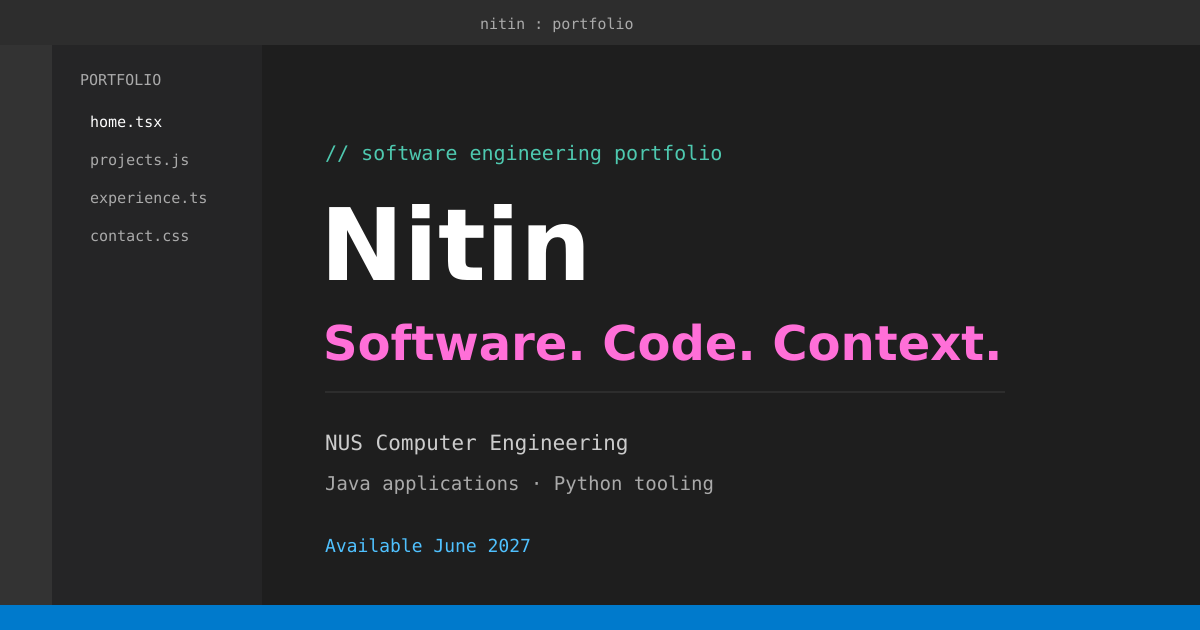
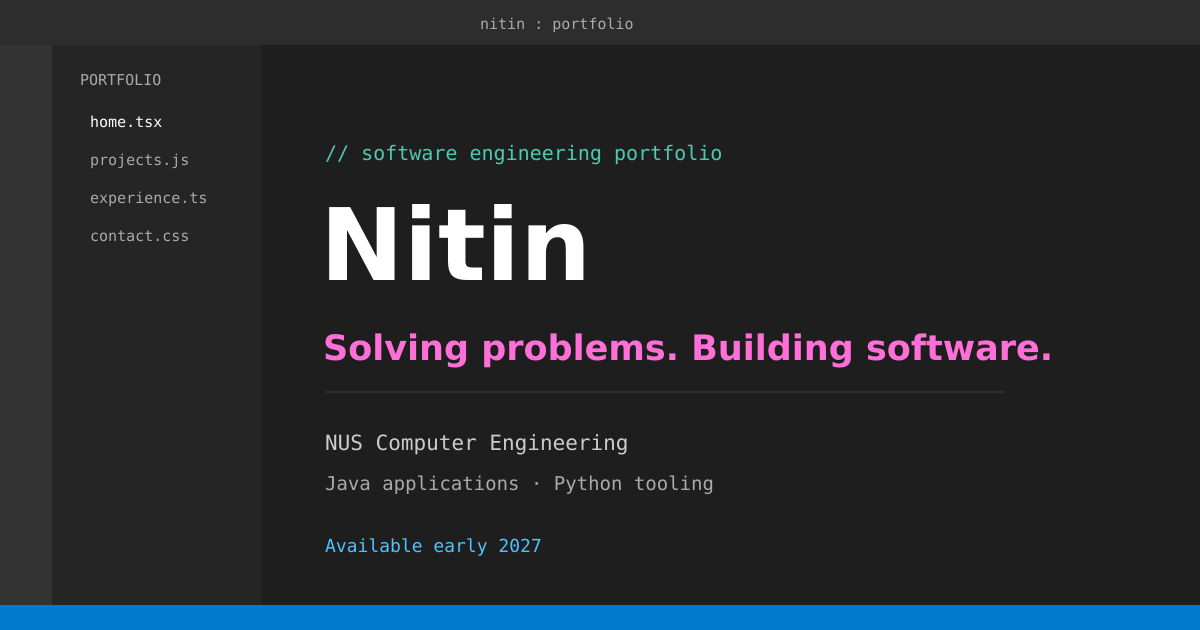
Refocus portfolio on software problem solving, ownership and teamwork

Changed region(s): [[0.2467, 0.5127, 0.8942, 0.6032], [0.3392, 0.8444, 0.4625, 0.8746]]

diff --git a/app.js b/app.js
@@ -31,11 +31,11 @@ const projectCards = [
     summary:'The software behind a wearable gesture/audio project: data collectors, capture protocols, calibration utilities and a live detector validation interface.',
     tags:['Python','MQTT / TLS','Data collection','Model tooling'],
     problem:'Collect structured sensor and audio recordings, coordinate captures and inspect action-detector behaviour while preserving useful labels and metadata.',
-    contribution:'This repository packages the team’s wearable-side work and supporting software. My exact ownership of the Python tools, protocol design and model pipeline still needs confirmation.',
+    contribution:'My contributions span Python data collectors and validation interfaces, communication protocols and capture coordination, model-training and export tooling, and firmware/hardware integration. This work forms part of a larger team project.',
     approach:'The paired demo uses MQTT/TLS control messages and shared capture IDs. Separate Python tools collect and review recordings. A separate detector prototype includes a live validation UI, training scripts and model-to-C++ export.',
     outcome:'Source, protocol guides, model reports and test code are available. The automatic detector remains a prototype; it has not replaced the paired demo trigger. The team’s Ultra96 inference and Unity projects are separate.',
     evidence:external('https://github.com/nitin19011/milo-hardware/blob/main/README.md','Repository overview')+' · '+external('https://github.com/nitin19011/milo-hardware/tree/main/prototypes/candidate_detector_latest','Detector prototype'),
-    note:'Draft detail: confirm which Milo software components I personally implemented before using this case study in applications.'
+    note:null
   },
   {
     name:'Socks',type:'Java application · course project',number:'03',url:'https://github.com/nitin19011/ip',
@@ -52,13 +52,13 @@ const projectCards = [
 const card = p => `<article class="project-card"><div class="project-top"><span class="project-number" aria-hidden="true">${p.number}</span>${external(p.url,'GitHub')}</div><p class="project-type">${p.type}</p><h3>${p.name}</h3><p>${p.summary}</p>${tags(p.tags)}<details><summary>Read case study</summary><dl class="project-details"><dt>Problem</dt><dd>${p.problem}</dd><dt>My contribution</dt><dd>${p.contribution}</dd><dt>Approach</dt><dd>${p.approach}</dd><dt>Outcome & current limits</dt><dd>${p.outcome}</dd><dt>Evidence</dt><dd>${p.evidence}</dd></dl>${p.note?`<p class="draft-note">${p.note}</p>`:''}</details></article>`;
 
 const views = {
-  home: () => `<section class="pane home-pane" aria-labelledby="home-title"><div class="hero-grid"><div class="hero-copy"><p class="code-comment">// hello world. I'm Nitin.</p><h1 id="home-title">Nitin<span>Software portfolio.</span></h1><div class="underline-accent"></div><div class="badges"><span class="badge"><span class="dot"></span>Software engineering focus</span><span class="badge"><span class="dot"></span>NUS undergraduate</span><span class="badge pink">Class of 2027</span></div><p class="typing-line">Building applications. Understanding the details.<span class="cursor" aria-hidden="true"> |</span></p><p class="intro">I'm a Computer Engineering undergraduate focused on <strong>software development</strong>. My work spans <strong>Java applications</strong> and <strong>Python tooling</strong>, supported by industry experience in testing, troubleshooting and customer requirements.</p><div class="actions"><a class="button primary" href="#projects"><span aria-hidden="true">▱</span> View projects</a><a class="button" href="assets/Nitin_Resume.pdf" download><span aria-hidden="true">↓</span> Download résumé</a><a class="button" href="#contact"><span aria-hidden="true">✉</span> Contact</a></div></div><figure class="portrait"><div class="portrait-title"><span>nitin.webp</span><span aria-hidden="true">image</span></div><img src="assets/nitin.webp" width="600" height="800" alt="Nitin wearing a blue T-shirt, looking to the side" fetchpriority="high"><figcaption>Singapore · NUS Computer Engineering</figcaption></figure></div><div class="facts" aria-label="Profile at a glance"><div class="fact"><strong>NUS</strong><span>Computer Engineering</span></div><div class="fact"><strong>Java</strong><span>Application projects</span></div><div class="fact"><strong>Python</strong><span>Collection & tooling</span></div><div class="fact"><strong>Jun 2027</strong><span>Available full-time</span></div></div><div class="socials">${external('https://github.com/nitin19011','GitHub','social-link')}<a class="social-link" href="mailto:nitinsaklani18@gmail.com"><span aria-hidden="true">✉</span>Email</a><a class="social-link" href="#experience"><span aria-hidden="true">⌁</span>Engineering experience</a></div><p class="home-footnote">Start with <a href="#projects">FitChasers & Milo</a>, or open a file in the explorer.</p></section>`,
+  home: () => `<section class="pane home-pane" aria-labelledby="home-title"><div class="hero-grid"><div class="hero-copy"><p class="code-comment">// hello world. I'm Nitin.</p><h1 id="home-title">Nitin<span>Software portfolio.</span></h1><div class="underline-accent"></div><div class="badges"><span class="badge"><span class="dot"></span>Software engineering focus</span><span class="badge"><span class="dot"></span>NUS undergraduate</span><span class="badge pink">Class of 2027</span></div><p class="typing-line">I learn fast, take ownership and build with others.<span class="cursor" aria-hidden="true"> |</span></p><p class="intro">I’m drawn to <strong>software engineering</strong> because I enjoy figuring out how to solve a problem, learning what it takes and turning that understanding into something that works. I take ownership, look beyond the immediate task and enjoy <strong>getting things done with a team</strong>.</p><div class="actions"><a class="button primary" href="#projects"><span aria-hidden="true">▱</span> View projects</a><a class="button" href="assets/Nitin_Resume.pdf" download><span aria-hidden="true">↓</span> Download résumé</a><a class="button" href="#contact"><span aria-hidden="true">✉</span> Contact</a></div></div><figure class="portrait"><div class="portrait-title"><span>nitin.webp</span><span aria-hidden="true">image</span></div><img src="assets/nitin.webp" width="600" height="800" alt="Nitin wearing a blue T-shirt, looking to the side" fetchpriority="high"><figcaption>Singapore · NUS Computer Engineering</figcaption></figure></div><div class="facts" aria-label="Profile at a glance"><div class="fact"><strong>NUS</strong><span>Computer Engineering</span></div><div class="fact"><strong>Java</strong><span>Application projects</span></div><div class="fact"><strong>Python</strong><span>Collection & tooling</span></div><div class="fact"><strong>Early 2027</strong><span>Available full-time</span></div></div><div class="socials">${external('https://github.com/nitin19011','GitHub','social-link')}<a class="social-link" href="mailto:nitinsaklani18@gmail.com"><span aria-hidden="true">✉</span>Email</a><a class="social-link" href="#experience"><span aria-hidden="true">⌁</span>Engineering experience</a></div><p class="home-footnote">Start with <a href="#projects">FitChasers & Milo</a>, or open a file in the explorer.</p></section>`,
   projects: () => `<section class="pane" aria-labelledby="projects-title">${heading('// projects.js — source, decisions, contributions','Selected projects','Application development and software tools. Open a case study for scope, contribution and evidence.').replace('<h2>','<h2 id="projects-title">')}<div class="project-grid">${projectCards.map(card).join('')}</div></section>`,
-  about: () => `<section class="pane" aria-labelledby="about-title">${heading('&lt;!-- about.html — background & education --&gt;','About me','Computer Engineering background. Software engineering direction.').replace('<h2>','<h2 id="about-title">')}<div class="info-box"><p>I'm <strong>Nitin</strong>, a Computer Engineering undergraduate at the National University of Singapore. I'm looking for <strong>software engineering roles starting June 2027</strong>.<br><br>Before university, I worked in semiconductor engineering, where I supported testing, investigated issues and translated customer requirements into inspection checks. I'm now building my software portfolio through Java applications and the tools supporting team projects.</p></div><h3 class="section-heading">Education</h3><div class="education"><article class="info-box"><p class="date">August 2024 – April 2027 · expected</p><h3>National University of Singapore</h3><p>Bachelor of Engineering in Computer Engineering (Honours)</p><p>Relevant completed coursework includes software engineering and object-oriented programming, data structures and algorithms, and information security.</p></article><article class="info-box"><p class="date">2018 – 2021</p><h3>Temasek Polytechnic</h3><p>Diploma in Aerospace Engineering</p></article></div><h3 class="section-heading">Outside the editor</h3><p class="muted">Volleyball, guitar and piano, and an interest in technology and physics.</p><a class="button" href="assets/Nitin_Resume.pdf" download>↓ Download full résumé</a></section>`,
-  skills: () => `<section class="pane" aria-labelledby="skills-title">${heading('// skills.json — grouped by evidence','Skills & tools','No proficiency scores. Each group points to the work behind it.').replace('<h2>','<h2 id="skills-title">')}<div class="skill-grid"><article class="skill-group"><h3>Application development</h3>${tags(['Java','Object-oriented programming','Command parsing','File storage'])}<p>Evidence: <a href="#projects">FitChasers and Socks</a>.</p></article><article class="skill-group"><h3>Tooling & collection</h3>${tags(['Python','Collection interfaces','Dataset metadata','Protocol tooling'])}<p>Present in <a href="#projects">Milo’s software tooling</a>. Component ownership is being confirmed.</p></article><article class="skill-group"><h3>Development workflow</h3>${tags(['Git / GitHub','Gradle','JUnit','Checkstyle','Technical documentation'])}<p>Evidence: FitChasers source, build configuration, tests and contribution notes.</p></article><article class="skill-group"><h3>Engineering practice</h3>${tags(['Issue reproduction','Fix verification','Troubleshooting','Customer requirements'])}<p>Evidence: applications and associate engineering roles.</p></article></div><div class="info-box"><p>My résumé also lists <strong>C, C++, Python, Java, Rust and Linux</strong>. Project-specific examples and current proficiency should be discussed in an interview; the list is not a claim of equal depth in every language.</p></div></section>`,
-  experience: () => `<section class="pane" aria-labelledby="experience-title">${heading('// experience.ts — professional background','Experience','Testing, troubleshooting and communicating technical requirements.').replace('<h2>','<h2 id="experience-title">')}<div class="timeline"><article><time>March 2024 – August 2024</time><h3>Applications Engineer</h3><p class="company">@ IN.D Solution · Semiconductor devices</p><ul><li>Built and tuned machine-vision inspection recipes against customer requirements.</li><li>Supplied test cases, reproduced issues and verified fixes across software and hardware updates.</li><li>Supported technical troubleshooting, demonstrations and project reporting across teams.</li></ul>${tags(['Machine vision','Testing','Requirements'])}</article><article><time>October 2021 – September 2023</time><h3>Associate Engineer</h3><p class="company">@ STATS ChipPAC · JCET Group</p><ul><li>Investigated semiconductor device issues and supported corrective actions.</li><li>Collected data to help product engineers address quality and yield requirements.</li><li>Communicated testing progress and technical issues to customers.</li></ul>${tags(['Troubleshooting','Data collection','Customer communication'])}</article><article><time>October 2020 – March 2021</time><h3>Design & Mechanical Engineer Intern</h3><p class="company">@ Temasek Polytechnic Aviation Research Centre</p><ul><li>Supported UAV prototype fabrication, assembly and iteration.</li><li>Created and refined PTC Creo models for fit and assembly requirements.</li><li>Assisted with build documentation and coordination.</li></ul>${tags(['Prototyping','PTC Creo','Documentation'])}</article></div><p class="section-description">These roles are engineering experience. They are not presented as software engineering employment.</p></section>`,
-  contact: () => `<section class="pane" aria-labelledby="contact-title">${heading('/* contact.css — get in touch */','Let’s talk software.','Available for full-time roles from June 2027.').replace('<h2>','<h2 id="contact-title">')}<div class="info-box"><p>For software engineering opportunities or a conversation about my projects:</p><a class="contact-address" href="mailto:nitinsaklani18@gmail.com">nitinsaklani18@gmail.com <span aria-hidden="true">↗</span></a><div class="actions"><a class="button primary" href="mailto:nitinsaklani18@gmail.com">✉ Write an email</a>${external('https://github.com/nitin19011','View GitHub','button')}<a class="button" href="assets/Nitin_Resume.pdf" download>↓ Download résumé</a></div></div><div class="contact-grid"><div class="info-box"><h3>Role focus</h3><p>Software engineering and application development. Open to discussing customer-facing technical software roles.</p></div><div class="info-box"><h3>Location & availability</h3><p>Based in Singapore. Available June 2027. Open to overseas employers offering remote roles that can be performed from Singapore.</p></div></div><p class="section-description">The email link opens your mail application. No contact form or third-party submission service is used.</p></section>`,
-  readme: () => `<section class="pane md-content" aria-labelledby="readme-title">${heading('# README.md','A quick introduction','The short version, for a recruiter with a few minutes.').replace('<h2>','<h2 id="readme-title">')}<div class="code-block"><span class="code-line">{</span><span class="code-line">&nbsp; <span class="code-key">"name"</span>: <span class="code-string">"Nitin"</span>,</span><span class="code-line">&nbsp; <span class="code-key">"focus"</span>: <span class="code-string">"Software engineering"</span>,</span><span class="code-line">&nbsp; <span class="code-key">"education"</span>: <span class="code-string">"NUS Computer Engineering"</span>,</span><span class="code-line">&nbsp; <span class="code-key">"available"</span>: <span class="code-string">"June 2027"</span></span><span class="code-line">}</span></div><h3>What to look at</h3><ul><li><a href="#projects">FitChasers</a>: Java application work and documented personal contributions.</li><li><a href="#projects">Milo</a>: collection, protocol and validation tooling supporting a team project.</li><li><a href="#experience">Engineering experience</a>: practical troubleshooting, testing and customer communication.</li></ul><h3>What is still being documented</h3><p>The Milo and Socks case studies explicitly mark personal contribution details that need confirmation. Prototype behaviour is described with its limitations; no production or adoption claims are made.</p><h3>Get the résumé</h3><p><a href="assets/Nitin_Resume.pdf" download>Download the supplied résumé as a PDF</a>, or <a href="mailto:nitinsaklani18@gmail.com">contact me directly</a>.</p></section>`
+  about: () => `<section class="pane" aria-labelledby="about-title">${heading('&lt;!-- about.html — background & education --&gt;','About me','Curious about the problem. Committed to getting it done.').replace('<h2>','<h2 id="about-title">')}<div class="info-box"><p>I’m <strong>Nitin</strong>, a Computer Engineering undergraduate at the National University of Singapore, pursuing <strong>software engineering opportunities from early 2027</strong>.<br><br>I enjoy problems that make me learn something new. I pick up unfamiliar tools quickly and work towards being able to use them independently. I care about understanding the goal, taking responsibility for my part and looking for what else needs doing to move the work forward.<br><br>I’m equally motivated by the team side of engineering. I enjoy bringing people together, helping organise the work and stepping up to lead when needed. For me, getting something built is a shared effort.<br><br>My projects span Java applications and the Python collectors, protocols and model tooling behind Milo. Earlier semiconductor roles gave me experience working with customers and engineering teams; software development is the direction I’m building towards.</p></div><h3 class="section-heading">Education</h3><div class="education"><article class="info-box"><p class="date">August 2024 – April 2027 · expected</p><h3>National University of Singapore</h3><p>Bachelor of Engineering in Computer Engineering (Honours)</p><p>Relevant completed coursework includes software engineering and object-oriented programming, data structures and algorithms, and information security.</p></article><article class="info-box"><p class="date">2018 – 2021</p><h3>Temasek Polytechnic</h3><p>Diploma in Aerospace Engineering</p></article></div><h3 class="section-heading">Outside the editor</h3><p class="muted">Volleyball, guitar and piano, and an interest in technology and physics.</p><a class="button" href="assets/Nitin_Resume.pdf" download>↓ Download full résumé</a></section>`,
+  skills: () => `<section class="pane" aria-labelledby="skills-title">${heading('// skills.json — grouped by evidence','Skills & tools','No proficiency scores. Each group points to the work behind it.').replace('<h2>','<h2 id="skills-title">')}<div class="skill-grid"><article class="skill-group"><h3>Application development</h3>${tags(['Java','Object-oriented programming','Command parsing','File storage'])}<p>Evidence: <a href="#projects">FitChasers and Socks</a>.</p></article><article class="skill-group"><h3>Tooling & collection</h3>${tags(['Python','Collection interfaces','Dataset metadata','Protocol tooling'])}<p>Applied in <a href="#projects">Milo’s collectors, validation interfaces and model tooling</a>.</p></article><article class="skill-group"><h3>Development workflow</h3>${tags(['Git / GitHub','Gradle','JUnit','Checkstyle','Technical documentation'])}<p>Evidence: FitChasers source, build configuration, tests and contribution notes.</p></article><article class="skill-group"><h3>How I work</h3>${tags(['Problem solving','Independent learning','Ownership','Team collaboration'])}<p>I learn unfamiliar tools quickly, work independently when needed, and enjoy helping a team organise its work and follow through.</p></article></div><div class="info-box"><p>My résumé also lists <strong>C, C++, Python, Java, Rust and Linux</strong>. Project-specific examples and current proficiency should be discussed in an interview; the list is not a claim of equal depth in every language.</p></div></section>`,
+  experience: () => `<section class="pane" aria-labelledby="experience-title">${heading('// experience.ts — professional background','Experience','Earlier roles that shaped how I approach practical problems and work with others.').replace('<h2>','<h2 id="experience-title">')}<div class="timeline"><article><time>March 2024 – August 2024</time><h3>Applications Engineer</h3><p class="company">@ IN.D Solution · Semiconductor devices</p><ul><li>Built and tuned machine-vision inspection recipes against customer requirements.</li><li>Supplied test cases, reproduced issues and verified fixes across software and hardware updates.</li><li>Supported technical troubleshooting, demonstrations and project reporting across teams.</li></ul>${tags(['Machine vision','Testing','Requirements'])}</article><article><time>October 2021 – September 2023</time><h3>Associate Engineer</h3><p class="company">@ STATS ChipPAC · JCET Group</p><ul><li>Investigated semiconductor device issues and supported corrective actions.</li><li>Collected data to help product engineers address quality and yield requirements.</li><li>Communicated testing progress and technical issues to customers.</li></ul>${tags(['Troubleshooting','Data collection','Customer communication'])}</article><article><time>October 2020 – March 2021</time><h3>Design & Mechanical Engineer Intern</h3><p class="company">@ Temasek Polytechnic Aviation Research Centre</p><ul><li>Supported UAV prototype fabrication, assembly and iteration.</li><li>Created and refined PTC Creo models for fit and assembly requirements.</li><li>Assisted with build documentation and coordination.</li></ul>${tags(['Prototyping','PTC Creo','Documentation'])}</article></div><p class="section-description">My current focus is software engineering and application development.</p></section>`,
+  contact: () => `<section class="pane" aria-labelledby="contact-title">${heading('/* contact.css — get in touch */','Let’s talk software.','Available for full-time roles from early 2027.').replace('<h2>','<h2 id="contact-title">')}<div class="info-box"><p>For software engineering opportunities or a conversation about my projects:</p><a class="contact-address" href="mailto:nitinsaklani18@gmail.com">nitinsaklani18@gmail.com <span aria-hidden="true">↗</span></a><div class="actions"><a class="button primary" href="mailto:nitinsaklani18@gmail.com">✉ Write an email</a>${external('https://github.com/nitin19011','View GitHub','button')}<a class="button" href="assets/Nitin_Resume.pdf" download>↓ Download résumé</a></div></div><div class="contact-grid"><div class="info-box"><h3>Role focus</h3><p>Software engineering and application development. I’m looking for problems to own, new skills to develop and a team to build with.</p></div><div class="info-box"><h3>Location & availability</h3><p>Based in Singapore. Available early 2027. Open to overseas employers offering remote roles that can be performed from Singapore.</p></div></div><p class="section-description">The email link opens your mail application. No contact form or third-party submission service is used.</p></section>`,
+  readme: () => `<section class="pane md-content" aria-labelledby="readme-title">${heading('# README.md','A quick introduction','The short version, for a recruiter with a few minutes.').replace('<h2>','<h2 id="readme-title">')}<div class="code-block"><span class="code-line">{</span><span class="code-line">&nbsp; <span class="code-key">"name"</span>: <span class="code-string">"Nitin"</span>,</span><span class="code-line">&nbsp; <span class="code-key">"focus"</span>: <span class="code-string">"Software engineering"</span>,</span><span class="code-line">&nbsp; <span class="code-key">"education"</span>: <span class="code-string">"NUS Computer Engineering"</span>,</span><span class="code-line">&nbsp; <span class="code-key">"available"</span>: <span class="code-string">"early 2027"</span></span><span class="code-line">}</span></div><h3>What to look at</h3><ul><li><a href="#projects">FitChasers</a>: Java application work and documented personal contributions.</li><li><a href="#projects">Milo</a>: collection, protocol and validation tooling supporting a team project.</li><li><a href="#experience">Engineering experience</a>: working with customers and engineering teams to address practical problems.</li></ul><h3>What is still being documented</h3><p>The Socks case study marks contribution details that still need confirmation beyond the supplied course template. Prototype behaviour is described with its limitations; no production or adoption claims are made.</p><h3>Get the résumé</h3><p><a href="assets/Nitin_Resume.pdf" download>Download the supplied résumé as a PDF</a>, or <a href="mailto:nitinsaklani18@gmail.com">contact me directly</a>.</p></section>`
 };
 
 let openFiles = ['home','about','projects','readme','skills'];

diff --git a/index.html b/index.html
@@ -5,9 +5,9 @@
   <meta name="viewport" content="width=device-width, initial-scale=1">
   <meta name="theme-color" content="#1e1e1e">
   <title>Nitin | Software Engineering Portfolio</title>
-  <meta name="description" content="Nitin's software portfolio: Java applications, Python data collection tools and engineering experience. NUS Computer Engineering undergraduate, available June 2027.">
+  <meta name="description" content="Nitin's software engineering portfolio. An NUS Computer Engineering undergraduate who enjoys solving problems, learning quickly and building with teams. Available early 2027.">
   <meta property="og:title" content="Nitin | Software Engineering Portfolio">
-  <meta property="og:description" content="Java applications, Python tooling and engineering experience. Available June 2027.">
+  <meta property="og:description" content="Solving problems through software, taking ownership and building with teams. Available early 2027.">
   <link rel="canonical" href="https://nitin19011.github.io/">
   <meta property="og:url" content="https://nitin19011.github.io/">
   <meta property="og:type" content="website">
@@ -46,7 +46,7 @@
     <div class="folder-label"><span aria-hidden="true">⌄</span> NITIN</div>
     <nav id="file-navigation" aria-label="Portfolio files"></nav>
     <a class="resume-file" href="assets/Nitin_Resume.pdf" download><span class="file-icon pdf">PDF</span><span>Nitin_Resume.pdf</span><span>↓</span></a>
-    <div class="explorer-note"><span class="dot"></span> Open to software roles<br><span class="muted">Starting June 2027</span></div>
+    <div class="explorer-note"><span class="dot"></span> Open to software roles<br><span class="muted">Starting early 2027</span></div>
     <div class="branch"><span aria-hidden="true">⑂</span> main <span class="branch-note">portfolio</span></div>
   </aside>
   <div class="editor">
@@ -54,7 +54,7 @@
     <div class="breadcrumbs"><span>nitin</span><span aria-hidden="true">›</span><span id="crumb-folder">src</span><span aria-hidden="true">›</span><span id="crumb-file">home.tsx</span></div>
     <main id="content" tabindex="-1"><section class="pane"><p class="code-comment">// hello world. I'm Nitin.</p><h1>Nitin</h1><p>Computer Engineering undergraduate at NUS, focused on software engineering.</p><p><a href="https://github.com/nitin19011">View my projects on GitHub</a> · <a href="assets/Nitin_Resume.pdf" download>Download résumé</a></p></section></main>
   </div>
-  <footer class="statusbar"><span class="status-left"><span aria-hidden="true">⑂</span> main <span class="status-extra">Nitin / portfolio</span></span><span class="status-right"><span class="status-extra" id="status-language">TypeScript React</span><span>UTF-8</span><span class="available"><span class="dot"></span> Available Jun 2027</span></span></footer>
+  <footer class="statusbar"><span class="status-left"><span aria-hidden="true">⑂</span> main <span class="status-extra">Nitin / portfolio</span></span><span class="status-right"><span class="status-extra" id="status-language">TypeScript React</span><span>UTF-8</span><span class="available"><span class="dot"></span> Available early 2027</span></span></footer>
 </div>
 <dialog id="file-dialog" aria-labelledby="file-dialog-title"><form method="dialog"><div class="dialog-header"><label id="file-dialog-title" for="file-filter">Go to file</label><button value="close" aria-label="Close file navigator">Esc</button></div><input type="search" id="file-filter" placeholder="Type a filename…" autocomplete="off"><nav id="file-results" aria-label="Matching files"></nav><p class="dialog-hint">↑ ↓ to move · Enter to open · Esc to close</p></form></dialog>
 <div class="drawer-backdrop" id="drawer-backdrop" hidden></div>

diff --git a/README.md b/README.md
@@ -52,7 +52,7 @@ The editor-style filenames are navigation labels. The implementation itself is v
 
 The draft is functional, but two project contribution details are deliberately marked in the case studies:
 
-- **Milo:** confirm which Python collectors, protocol components, tests, validation UI and model tooling you personally implemented. The project's team context remains explicit.
+- **Milo:** personal contributions were confirmed by Nitin across collection/validation tools, protocols/capture coordination, model-training/export tooling and firmware integration. The team context remains explicit.
 - **Socks:** confirm your additions beyond the provided Duke template.
 
 FitChasers claims are grounded in the contribution document and the merged exercise-management PR. No project adoption, performance or employment achievements have been invented.
@@ -78,3 +78,7 @@ Interactive browser and pixel comparison testing could not be completed in the c
 ## Local Windows editing
 
 Clone this repository using GitHub Desktop into `C:\Users\nitin\OneDrive\NUS\Jobs\Portfolio` (an empty folder). Edit the files there, then commit and Push origin. GitHub Pages deploys the pushed main branch. OneDrive sync alone does not publish website changes. Keep the folder available offline.
+
+## Current positioning
+
+Software engineering, practical problem solving, ownership, rapid learning and team collaboration. Earlier engineering roles remain factual work history rather than the target career identity. Public availability: early 2027, as requested by Nitin. Expected degree completion remains April 2027.
